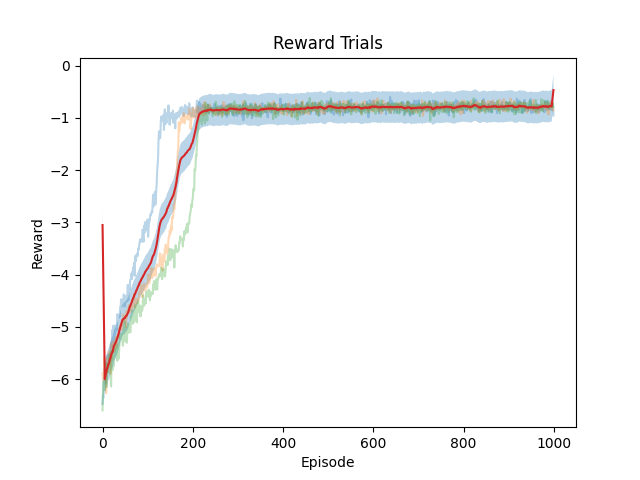
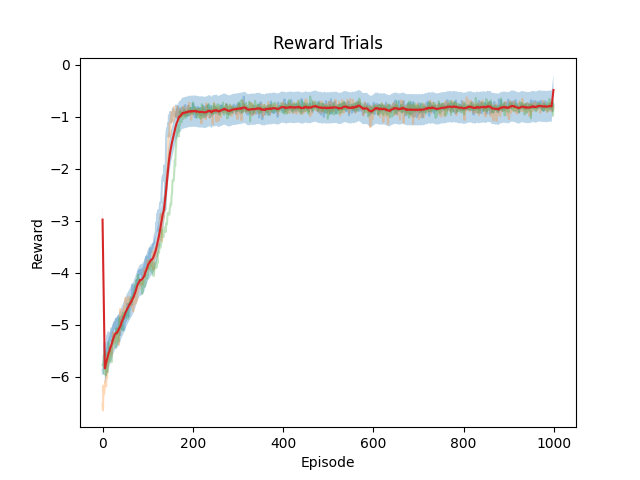
PPO: update run

diff --git a/PPO/ppo_refactor.py b/PPO/ppo_refactor.py
@@ -56,7 +56,7 @@ class PPO():
         super().__init__()
         self.env = make_vec_env(env_name, n_envs=n_envs)
         self.actor_critic = ActorCritic(self.env.observation_space.shape[0], self.env.action_space.shape[0]).to(device)
-        self.optimizer = optim.Adam(self.actor_critic.parameters(), lr=0.005)
+        self.optimizer = optim.Adam(self.actor_critic.parameters(), lr=1e-5)
         self.n_step_per_batch = n_step_per_batch
         self.n_actors = n_envs
         self.n_epochs = n_epochs
@@ -64,7 +64,6 @@ class PPO():
         self.update_epochs = 4 # the k-epoch 
         self.n_updates = self.n_epochs // self.batch_size
         self.cur_highest_reward = -1000000
-        self.temp_rew = deque([], max_len=1000)
 
         # hyperparameters
         self.lambd = 0.95
@@ -123,7 +122,6 @@ class PPO():
         wandb.log({"reward": np.mean(np.array(rews))})
         # finished collecting T samples for each agent
         # save the reward to self.temp_rew
-        self.temp_rew.append(np.mean(np.array(rews)))
 
         with torch.no_grad():
             next_state_values = self.actor_critic.get_value(torch.from_numpy(next_states).float().to(device)).reshape(1, -1)
@@ -161,6 +159,7 @@ class PPO():
             # collect batch data
             b_states, b_actions, b_log_probs, b_advantages, b_returns, b_values = self.rollout()
 
+
             for update_epoch in range(self.update_epochs):
                 np.random.shuffle(b_indicies)
                 for start in range(0, self.batch_size, mini_batch_size):
@@ -176,7 +175,6 @@ class PPO():
 
                     # calculate the ratio
                     ratio = torch.exp(current_log_probs - b_log_probs[mb_inds])
-
                     # calculate the surrogate loss
                     surrogate_loss_1 = ratio * mb_advantages
                     surrogate_loss_2 = torch.clamp(ratio, 1 - self.epsilon, 1 + self.epsilon) * mb_advantages
@@ -198,9 +196,6 @@ class PPO():
                     wandb.log({"loss": loss.item()})
                     wandb.log({"surrogate_loss": surrogate_loss.item()})
                     wandb.log({"value_loss": value_loss.item()})
-
-
-
 
 
 
